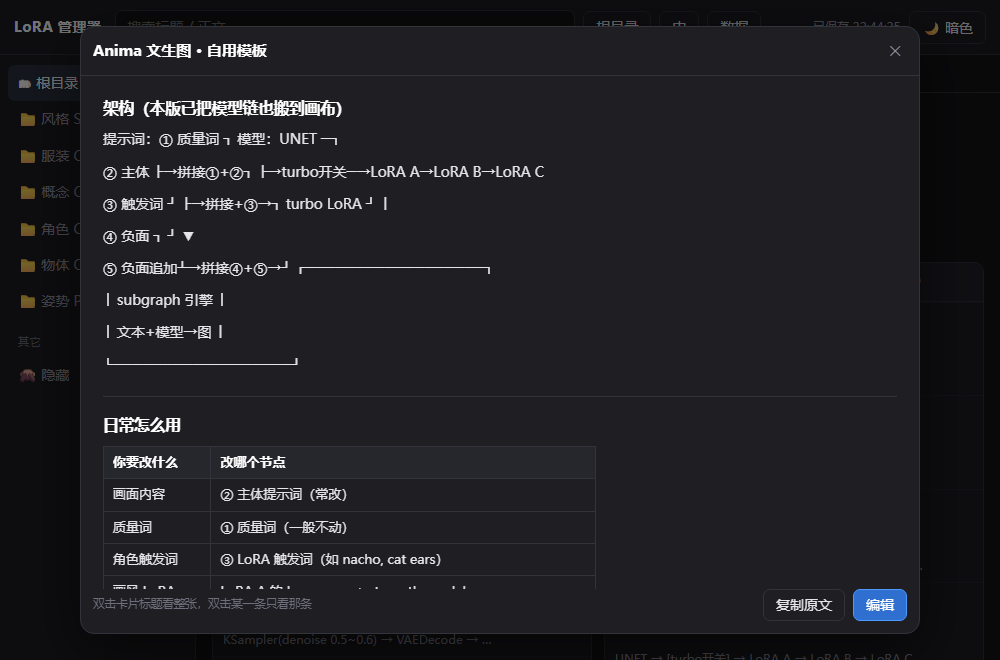
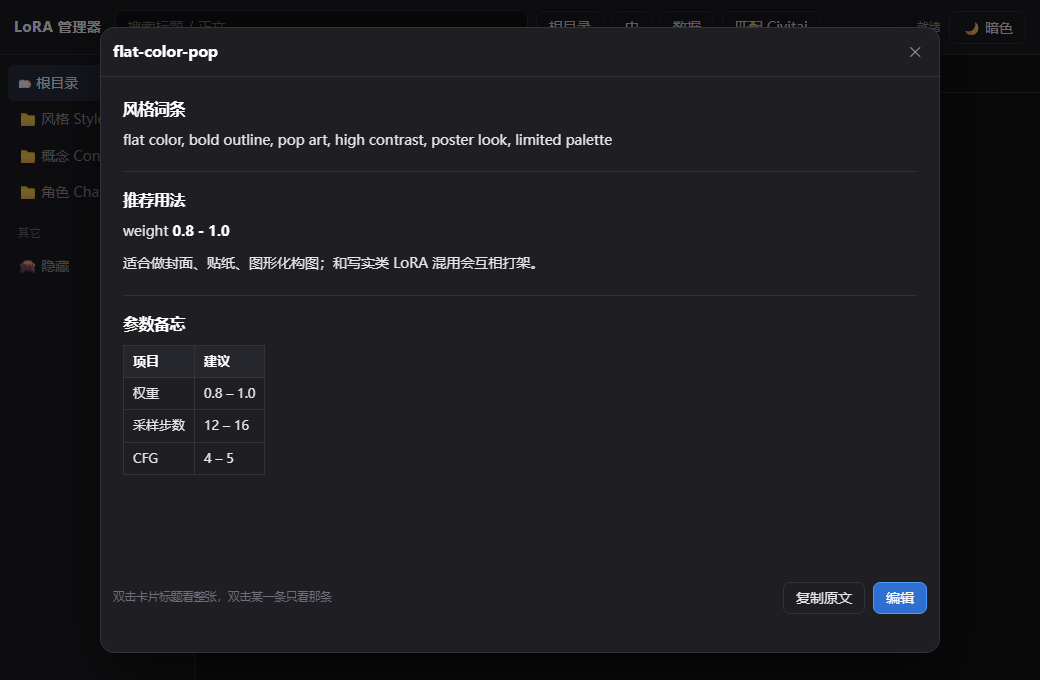
README 同步 Civitai 匹配等功能；截图换成纯合成数据

diff --git a/web/i18n.js b/web/i18n.js
@@ -48,7 +48,7 @@ const I18N = {
     '取消隐藏': 'Unhide',
     '还没有内容，点标题右边的 ＋ 新建小卡片。': 'No entries yet — click ＋ above to add one.',
     '已隐藏，右键或点 ↩ 恢复。': 'Hidden — right-click or click ↩ to restore.',
-    '还没有小卡片，点 ＋ 新建。': 'No entries yet — click ＋ to add one.',
+    '还没有小卡片，点 ＋ 新建（右键也有）': 'No entries yet — click ＋ (or right-click) to add one',
     '权重': 'weight',
     '这张卡还没有提示词。': 'This card has no entries yet.',
 
@@ -146,7 +146,7 @@ const I18N = {
     '把全角逗号、多余空格、重复逗号之类规整掉': 'Normalize punctuation, spaces and commas',
 
     // ---- 空状态 / 面包屑 ----
-    '这个文件夹还是空的。点右上角「＋ 卡片」，或把 .safetensors 拖进来。':
+    '这个文件夹还是空的。在空白处右键新建，或把 .safetensors 拖进来。':
       'This folder is empty. Right-click to create a card, or drop a .safetensors here.',
     '还没有设置 LoRA 目录 —— 点顶栏「⚙ 根目录」选一个 ComfyUI 的 models\\loras。':
       'No LoRA folder set — click “Root folder” in the toolbar.',

diff --git a/web/app.js b/web/app.js
@@ -679,7 +679,7 @@ function ghostHTML(file, hiddenView) {
   const btn = hiddenView
     ? `<button class="icon" data-unhide="${esc(file.rel)}" title="${t('取消隐藏')}">↩</button>`
     : `<button class="icon" data-claim="${esc(file.rel)}" title="${t('新建小卡片')}">＋</button>`;
-  const hint = hiddenView ? t('已隐藏，右键或点 ↩ 恢复。') : t('还没有小卡片，点 ＋ 新建。');
+  const hint = hiddenView ? t('已隐藏，右键或点 ↩ 恢复。') : t('还没有小卡片，点 ＋ 新建（右键也有）');
   const inner = card ? kidsOf(card) : `<div class="child"><div class="mid"><div class="cb">${hint}</div></div></div>`;
   return `<div class="card ghost" data-path="${esc(file.rel)}" title="${esc(cardTip(cardByPath(file.rel), file.rel))}">
     <div class="card-head">

diff --git a/web/index.html b/web/index.html
@@ -26,7 +26,7 @@
     <div class="cards-wrap" id="scroller">
       <div class="folders" id="folders"></div>
       <div class="cards" id="cards"></div>
-      <div class="empty" id="empty" hidden data-i18n="这个文件夹还是空的。点右上角「＋ 卡片」，或把 .safetensors 拖进来。"></div>
+      <div class="empty" id="empty" hidden data-i18n="这个文件夹还是空的。在空白处右键新建，或把 .safetensors 拖进来。"></div>
     </div>
   </section>
 </main>

diff --git a/README.md b/README.md
@@ -27,7 +27,8 @@ When you have dozens of LoRAs, their trigger words and prompt variants end up sc
 - **多选合并复制**：按点选顺序拼成一行，分隔符可选逗号/换行/空格，可去重
 - **预览**：双击卡片按 markdown 渲染（标题、加粗、代码、列表、表格、分隔线）
 - **格式化**：全角标点转半角、逗号与空格规范化；选中文字时只格式化那一段
-- **文件操作**：重命名、隐藏（不改文件）、移动、把 `.safetensors` 拖进窗口复制到当前目录
+- **文件操作**：重命名、移动、隐藏（不改文件）、删除（进回收站）、拖放或右键导入
+- **Civitai 匹配**：按文件 SHA256 找到模型页，一键打开；批量匹配、三态标记、结果本地缓存
 - **拖动排序**：手动顺序会保留；「按规则排序」是右键里的一次性操作
 - **主题**：跟随系统 / 亮色 / 暗色
 - **语言**：中文 / English
@@ -66,6 +67,24 @@ data/                   # 自动创建：library.json + images/
 set LORA_MANAGER_ROOT=D:\ComfyUI\models\loras
 ```
 
+## Civitai 匹配 / Civitai lookup
+
+给本地 LoRA 找到它在 Civitai 上的**模型页地址**（顺带记下页面标题用于提示）。只取这两样，触发词、封面、卡片名都不动——手工写比自动填可靠。
+
+- 右键 **在 Civitai 打开**（仅已匹配时出现）
+- 顶栏 **匹配 Civitai**：批量处理还没匹配的
+  - 先做 3 秒连通性检测，连不上直接停
+  - 一次性算完缺的 SHA256（实测 1.4 GB/s，10 GB 全库约 7 秒）
+  - 逐个请求、间隔 250ms，再点一次可中断
+- 三种状态：`↻` 未匹配（悬停出现，点一下单查）/ `↗` 已匹配 / 无标记 = 查过但没有，不再重试
+- 没建卡片的 LoRA 也能匹配：状态按文件记录，建卡时自动继承
+- 结果按 SHA256 缓存进 `library.json`，命中缓存**不再联网**；文件改名、移动都不影响
+
+> 这是**可选**的联网功能，不联网时其它功能完全不受影响。
+> 查询只发送模型哈希到 `civitai.com`，不上传任何本地内容；但如果在意「别人知道你在用什么模型」，就不要开它。
+
+Find the Civitai **model page** for a local LoRA by SHA256 — nothing else is imported. Fully optional; when offline the rest of the app is unaffected.
+
 ## 数据在哪 / Where is my data
 
 ```
@@ -91,20 +110,28 @@ library.json.bak       # 每次保存自动留的上一版
       "title": "碧蓝航线 塔什干",
       "w": "0.7-1.0",
       "order": 3,
+      "h": "d2f148e0...bf72",
+      "civitai": "https://civitai.com/models/2900180?modelVersionId=3279360",
+      "ctitle": "Azur Lane Tashkent | 碧蓝航线 塔什干",
       "children": [
         { "id": "k_1", "title": "人设", "body": "tashkent, purple hair, ...", "img": "", "tags": [] }
       ]
     }
-  ]
+  ],
+  "files": { "Style/没有建卡的.safetensors": { "civitai": "", "h": "..." } },
+  "civcache": { "d2f148e0...bf72": { "url": "https://civitai.com/models/...", "title": "..." } }
 }
 ```
 
-`path` 是相对 LoRA 根目录的路径；`dir` 只对没绑定文件的纯文本卡有效。
+- `path` 相对 LoRA 根目录；`dir` 只对没绑定文件的纯文本卡有效
+- `civitai` 三种状态：不存在=没查过、空串=查过但没有、有地址=已匹配
+- `files` 存没建卡文件的匹配状态；`civcache` 是按 SHA256 的查询缓存
 
 ## 注意 / Caveats
 
 - **重命名和移动会改磁盘上的真实文件**。ComfyUI 的工作流里存的是相对路径（`lora_name`），改完旧工作流就找不到它了；而且 **ComfyUI 要重启一次**才能看到新路径。顶栏「撤销移动」只记得最近一次。
 - **隐藏不改文件**，只是不在这里显示，ComfyUI 照样能加载。
+- **Civitai 匹配需要能访问 civitai.com**（会走系统代理）；查不到的条目会标记为「无匹配」，之后不再自动重试，右键「刷新 Civitai 信息」可以强制重查。
 - 只支持 Windows（用了 WinForms + WebView2）。
 - 界面中英双语，但**你自己的卡片内容不会被翻译**。
 
